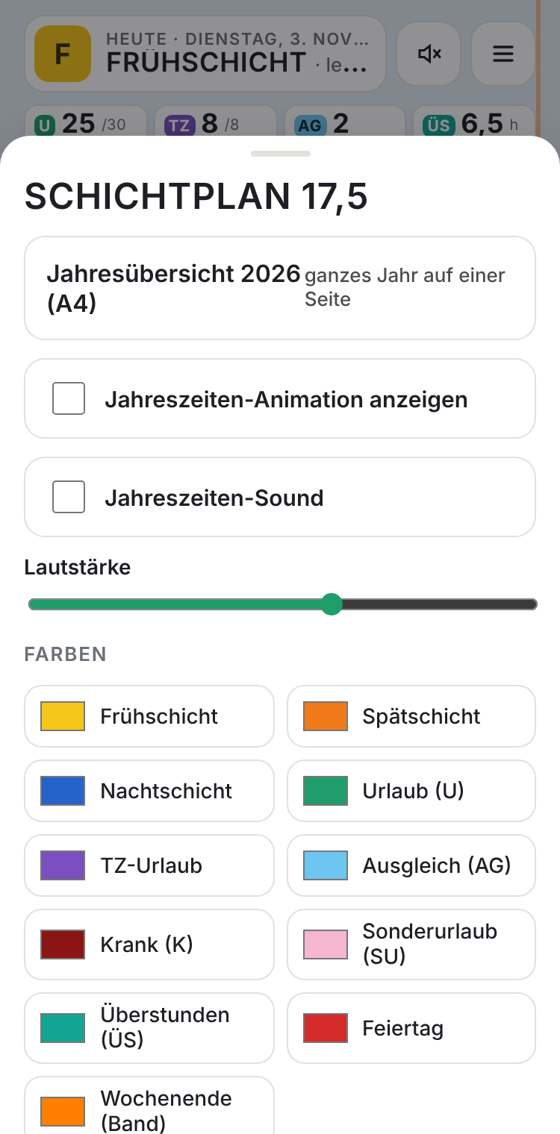
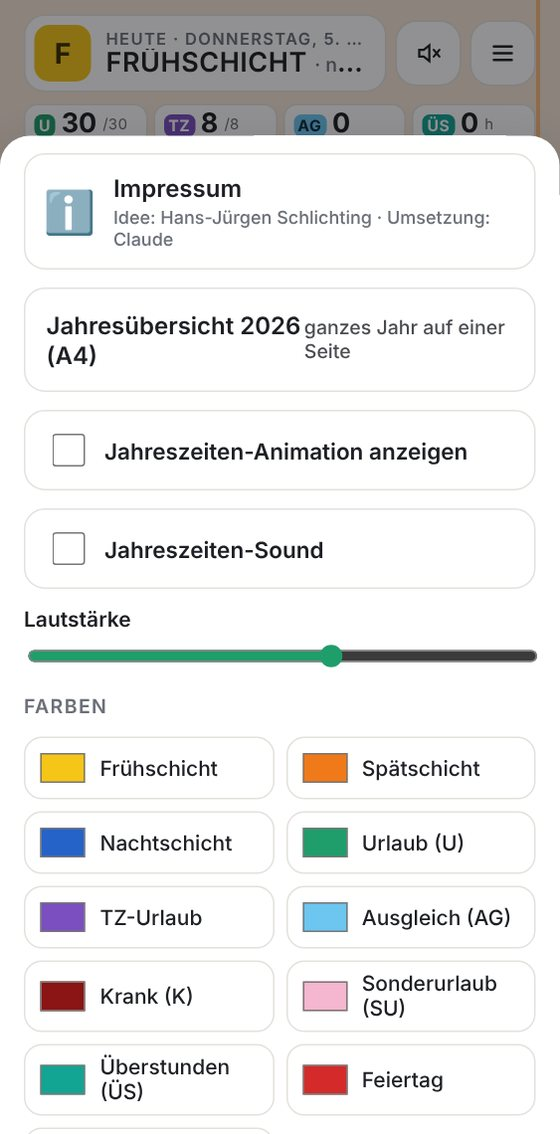
Anleitung: Kalender-Knopf, Schichtplan-Seite und Einstellungen aktualisiert
Claude-Session: https://claude.ai/code/session_01UYarYwaQ4b7eDEgu1BrBR4

diff --git a/index.html b/index.html
@@ -1945,7 +1945,7 @@ var qrcode=function(){var t=function(t,r){var e=t,n=g[r],o=null,i=0,a=null,u=[],
     ["feiertage","Feiertage und besondere Tage","feiertage",
      "Alle Feiertage in Bayern sowie Heiligabend und Silvester sind <b>rot und frei</b>, mit eigenem Symbol. Unter jedem Monat stehen die Feiertage und besonderen Tage wie Nikolaus oder Muttertag. 🕑 markiert die Zeitumstellung, 14 Tage vorher erscheint oben ein Hinweis."],
     ["menue","Das Menü ☰","menue",
-     "Über ☰ oben rechts erreichst du alle Seiten: Statistik, Meine Einträge, Notizen, Telefonbuch, Jahresübersicht, Partner, Schichtplan, Routinen, Einstellungen, Sicherung und diese Anleitung."],
+     "Über ☰ oben rechts erreichst du alle Seiten: Statistik, Meine Einträge, Notizen, Telefonbuch, Jahresübersicht, Partner, Schichtplan, Routinen, Einstellungen, Sicherung und diese Anleitung. Auf jeder dieser Seiten schwebt unten rechts der blaue Knopf <b>‹ Kalender</b>. Damit kommst du von überall sofort zurück zum Kalender, ohne nach oben scrollen zu müssen."],
     ["statistik","Statistik","statistik",
      "Alle Zähler eines Jahres auf einen Blick, dazu deine Überstunden pro Monat als Balken. Mit ‹ › wechselst du das Jahr."],
     ["statistik2","Jahreskalender und Speichern","statistik2",
@@ -1956,8 +1956,8 @@ var qrcode=function(){var t=function(t,r){var e=t,n=g[r],o=null,i=0,a=null,u=[],
      "Alle Notizen mit Datum, getrennt in anstehend und vergangen. Antippen springt zum Tag."],
     ["jahr","Jahresübersicht und Drucken","jahr",
      "Das ganze Jahr auf einer A4-Seite, nur mit Schichten und Feiertagen. Mit <b>📄 Als PDF speichern und drucken</b> speicherst du die Seite. Das PDF öffnest du auf dem Handy und druckst es über „Drucken“ oder „Teilen → Drucken“."],
-    ["modelle","Eigene Schichtmodelle","modelle",
-     "Für einen Zeitraum kannst du ein anderes Schichtmodell festlegen: Name, Gilt von, bis, dann den Ablauf aus Blöcken bauen (Früh, Spät, Nacht oder Frei, jeweils mit Anzahl Tage). Die Vorschau zeigt die ersten Wochen. Außerhalb gilt das 17,5-Modell."],
+    ["modelle","Schichtplan und eigene Schichtmodelle","modelle",
+     "Unter ☰ → <b>🔁 Schichtplan</b> kannst du für einen Zeitraum ein anderes Schichtmodell festlegen. Tippe auf „+ Neues Schichtmodell“. Für einen Zeitraum kannst du ein anderes Schichtmodell festlegen: Name, Gilt von, bis, dann den Ablauf aus Blöcken bauen (Früh, Spät, Nacht oder Frei, jeweils mit Anzahl Tage). Die Vorschau zeigt die ersten Wochen. Außerhalb gilt das 17,5-Modell, außer du hast es auf derselben Seite unten ausgeschaltet."],
     ["routinen","Routinen","routinen",
      "Für wiederkehrende Aufgaben wie <b>Hausordnung jeden 2. Samstag</b>: ☰ → <b>🧹 Routinen</b> → „Neue Routine“. Name eintragen, eine eigene <b>Abkürzung</b> (1–3 Zeichen, z. B. HO) wählen, den ersten Termin festlegen und einstellen, wie oft sie sich wiederholt: alle 1, 2, 3 … Tage, Wochen oder Monate. Darunter siehst du gleich die nächsten Termine. Im Kalender steht das Kürzel klein oben rechts im Tag, die Schichtfarben bleiben unverändert. Antippen des Tages zeigt den vollen Namen."],
     ["routinen2","Routinen im Kalender","routinen2",
@@ -1967,7 +1967,7 @@ var qrcode=function(){var t=function(t,r){var e=t,n=g[r],o=null,i=0,a=null,u=[],
     ["leer","Ohne 17,5-Modell (leerer Kalender)","leer",
      "Arbeitest du nicht im 17,5-Modell? Unter ☰ → <b>🔁 Schichtplan</b> tippst du unten auf <b>„17,5-Modell entfernen (leerer Kalender)“</b> und bestätigst mit einem zweiten Tippen. Dann ist der Kalender leer und du legst auf derselben Seite dein eigenes Schichtmodell an. Deine Einträge bleiben erhalten. Mit „17,5-Modell wieder einschalten“ machst du es rückgängig. Das gilt nur für dein Handy, bei anderen ändert sich nichts."],
     ["einstellungen","Einstellungen","einstellungen",
-     "Animation und Sound an- und ausschalten, Lautstärke, Urlaubsanspruch, Stunden pro Ausgleichstag und Überstunden-Übertrag, Schichtmodelle und der Start deines 17,5-Rhythmus."],
+     "Animation und Sound an- und ausschalten, Lautstärke, Urlaubsanspruch, Stunden pro Ausgleichstag und Überstunden-Übertrag, Routinen und der Start deines 17,5-Rhythmus (ein Montag, an dem dein Spät-Block beginnt)."],
     ["farben","Farben ändern","farben",
      "Tippe auf ein Farbfeld, um die Farbe für Früh, Spät, Nacht, Urlaub, TZ, Ausgleich, Krank, Sonderurlaub, Überstunden, Feiertage oder das Wochenend-Band zu ändern. „Farben zurücksetzen“ stellt alles auf Standard."],
     ["sicherung","Sicherung","sicherung",

diff --git a/src/schichtplan.html b/src/schichtplan.html
@@ -1929,7 +1929,7 @@ var qrcode=function(){var t=function(t,r){var e=t,n=g[r],o=null,i=0,a=null,u=[],
     ["feiertage","Feiertage und besondere Tage","feiertage",
      "Alle Feiertage in Bayern sowie Heiligabend und Silvester sind <b>rot und frei</b>, mit eigenem Symbol. Unter jedem Monat stehen die Feiertage und besonderen Tage wie Nikolaus oder Muttertag. 🕑 markiert die Zeitumstellung, 14 Tage vorher erscheint oben ein Hinweis."],
     ["menue","Das Menü ☰","menue",
-     "Über ☰ oben rechts erreichst du alle Seiten: Statistik, Meine Einträge, Notizen, Telefonbuch, Jahresübersicht, Partner, Schichtplan, Routinen, Einstellungen, Sicherung und diese Anleitung."],
+     "Über ☰ oben rechts erreichst du alle Seiten: Statistik, Meine Einträge, Notizen, Telefonbuch, Jahresübersicht, Partner, Schichtplan, Routinen, Einstellungen, Sicherung und diese Anleitung. Auf jeder dieser Seiten schwebt unten rechts der blaue Knopf <b>‹ Kalender</b>. Damit kommst du von überall sofort zurück zum Kalender, ohne nach oben scrollen zu müssen."],
     ["statistik","Statistik","statistik",
      "Alle Zähler eines Jahres auf einen Blick, dazu deine Überstunden pro Monat als Balken. Mit ‹ › wechselst du das Jahr."],
     ["statistik2","Jahreskalender und Speichern","statistik2",
@@ -1940,8 +1940,8 @@ var qrcode=function(){var t=function(t,r){var e=t,n=g[r],o=null,i=0,a=null,u=[],
      "Alle Notizen mit Datum, getrennt in anstehend und vergangen. Antippen springt zum Tag."],
     ["jahr","Jahresübersicht und Drucken","jahr",
      "Das ganze Jahr auf einer A4-Seite, nur mit Schichten und Feiertagen. Mit <b>📄 Als PDF speichern und drucken</b> speicherst du die Seite. Das PDF öffnest du auf dem Handy und druckst es über „Drucken“ oder „Teilen → Drucken“."],
-    ["modelle","Eigene Schichtmodelle","modelle",
-     "Für einen Zeitraum kannst du ein anderes Schichtmodell festlegen: Name, Gilt von, bis, dann den Ablauf aus Blöcken bauen (Früh, Spät, Nacht oder Frei, jeweils mit Anzahl Tage). Die Vorschau zeigt die ersten Wochen. Außerhalb gilt das 17,5-Modell."],
+    ["modelle","Schichtplan und eigene Schichtmodelle","modelle",
+     "Unter ☰ → <b>🔁 Schichtplan</b> kannst du für einen Zeitraum ein anderes Schichtmodell festlegen. Tippe auf „+ Neues Schichtmodell“. Für einen Zeitraum kannst du ein anderes Schichtmodell festlegen: Name, Gilt von, bis, dann den Ablauf aus Blöcken bauen (Früh, Spät, Nacht oder Frei, jeweils mit Anzahl Tage). Die Vorschau zeigt die ersten Wochen. Außerhalb gilt das 17,5-Modell, außer du hast es auf derselben Seite unten ausgeschaltet."],
     ["routinen","Routinen","routinen",
      "Für wiederkehrende Aufgaben wie <b>Hausordnung jeden 2. Samstag</b>: ☰ → <b>🧹 Routinen</b> → „Neue Routine“. Name eintragen, eine eigene <b>Abkürzung</b> (1–3 Zeichen, z. B. HO) wählen, den ersten Termin festlegen und einstellen, wie oft sie sich wiederholt: alle 1, 2, 3 … Tage, Wochen oder Monate. Darunter siehst du gleich die nächsten Termine. Im Kalender steht das Kürzel klein oben rechts im Tag, die Schichtfarben bleiben unverändert. Antippen des Tages zeigt den vollen Namen."],
     ["routinen2","Routinen im Kalender","routinen2",
@@ -1951,7 +1951,7 @@ var qrcode=function(){var t=function(t,r){var e=t,n=g[r],o=null,i=0,a=null,u=[],
     ["leer","Ohne 17,5-Modell (leerer Kalender)","leer",
      "Arbeitest du nicht im 17,5-Modell? Unter ☰ → <b>🔁 Schichtplan</b> tippst du unten auf <b>„17,5-Modell entfernen (leerer Kalender)“</b> und bestätigst mit einem zweiten Tippen. Dann ist der Kalender leer und du legst auf derselben Seite dein eigenes Schichtmodell an. Deine Einträge bleiben erhalten. Mit „17,5-Modell wieder einschalten“ machst du es rückgängig. Das gilt nur für dein Handy, bei anderen ändert sich nichts."],
     ["einstellungen","Einstellungen","einstellungen",
-     "Animation und Sound an- und ausschalten, Lautstärke, Urlaubsanspruch, Stunden pro Ausgleichstag und Überstunden-Übertrag, Schichtmodelle und der Start deines 17,5-Rhythmus."],
+     "Animation und Sound an- und ausschalten, Lautstärke, Urlaubsanspruch, Stunden pro Ausgleichstag und Überstunden-Übertrag, Routinen und der Start deines 17,5-Rhythmus (ein Montag, an dem dein Spät-Block beginnt)."],
     ["farben","Farben ändern","farben",
      "Tippe auf ein Farbfeld, um die Farbe für Früh, Spät, Nacht, Urlaub, TZ, Ausgleich, Krank, Sonderurlaub, Überstunden, Feiertage oder das Wochenend-Band zu ändern. „Farben zurücksetzen“ stellt alles auf Standard."],
     ["sicherung","Sicherung","sicherung",

diff --git a/sw.js b/sw.js
@@ -1,5 +1,5 @@
 // Offline-Speicher: App-Dateien werden auf dem Handy zwischengespeichert. Version wechselt bei jedem Update.
-const CACHE="schichtplan-dcf207611e";const PRE=["./", "index.html", "manifest.webmanifest", "icons/icon-maskable-512.png", "icons/icon-maskable-192.png", "icons/icon-192.png", "icons/apple-touch-icon.png", "icons/icon-512.png", "help/partner2.jpg", "help/tag.jpg", "help/notiz.jpg", "help/statistik.jpg", "help/kalendereintrag.jpg", "help/statistik2.jpg", "help/farben.jpg", "help/partner3.jpg", "help/routinen2.jpg", "help/kalender.jpg", "help/partner.jpg", "help/jahr.jpg", "help/notizen.jpg", "help/kopf.jpg", "help/zeitraum.jpg", "help/ueberstunden.jpg", "help/modelle.jpg", "help/sicherung.jpg", "help/leer.jpg", "help/eintraege.jpg", "help/einstellungen.jpg", "help/feiertage.jpg", "help/teamleiter.jpg", "help/routinen.jpg", "help/menue.jpg"];
+const CACHE="schichtplan-0d5c528f41";const PRE=["./", "index.html", "manifest.webmanifest", "icons/icon-maskable-512.png", "icons/icon-maskable-192.png", "icons/icon-192.png", "icons/apple-touch-icon.png", "icons/icon-512.png", "help/partner2.jpg", "help/tag.jpg", "help/notiz.jpg", "help/statistik.jpg", "help/kalendereintrag.jpg", "help/statistik2.jpg", "help/farben.jpg", "help/partner3.jpg", "help/routinen2.jpg", "help/kalender.jpg", "help/partner.jpg", "help/jahr.jpg", "help/notizen.jpg", "help/kopf.jpg", "help/zeitraum.jpg", "help/ueberstunden.jpg", "help/modelle.jpg", "help/sicherung.jpg", "help/leer.jpg", "help/eintraege.jpg", "help/einstellungen.jpg", "help/feiertage.jpg", "help/teamleiter.jpg", "help/routinen.jpg", "help/menue.jpg"];
 self.addEventListener("install",e=>{e.waitUntil(caches.open(CACHE).then(c=>c.addAll(PRE)).then(()=>self.skipWaiting()))});
 self.addEventListener("activate",e=>{e.waitUntil(caches.keys().then(ks=>Promise.all(ks.filter(k=>k!==CACHE).map(k=>caches.delete(k)))).then(()=>self.clients.claim()))});
 self.addEventListener("fetch",e=>{const r=e.request;if(r.method!=="GET")return;const u=new URL(r.url);
